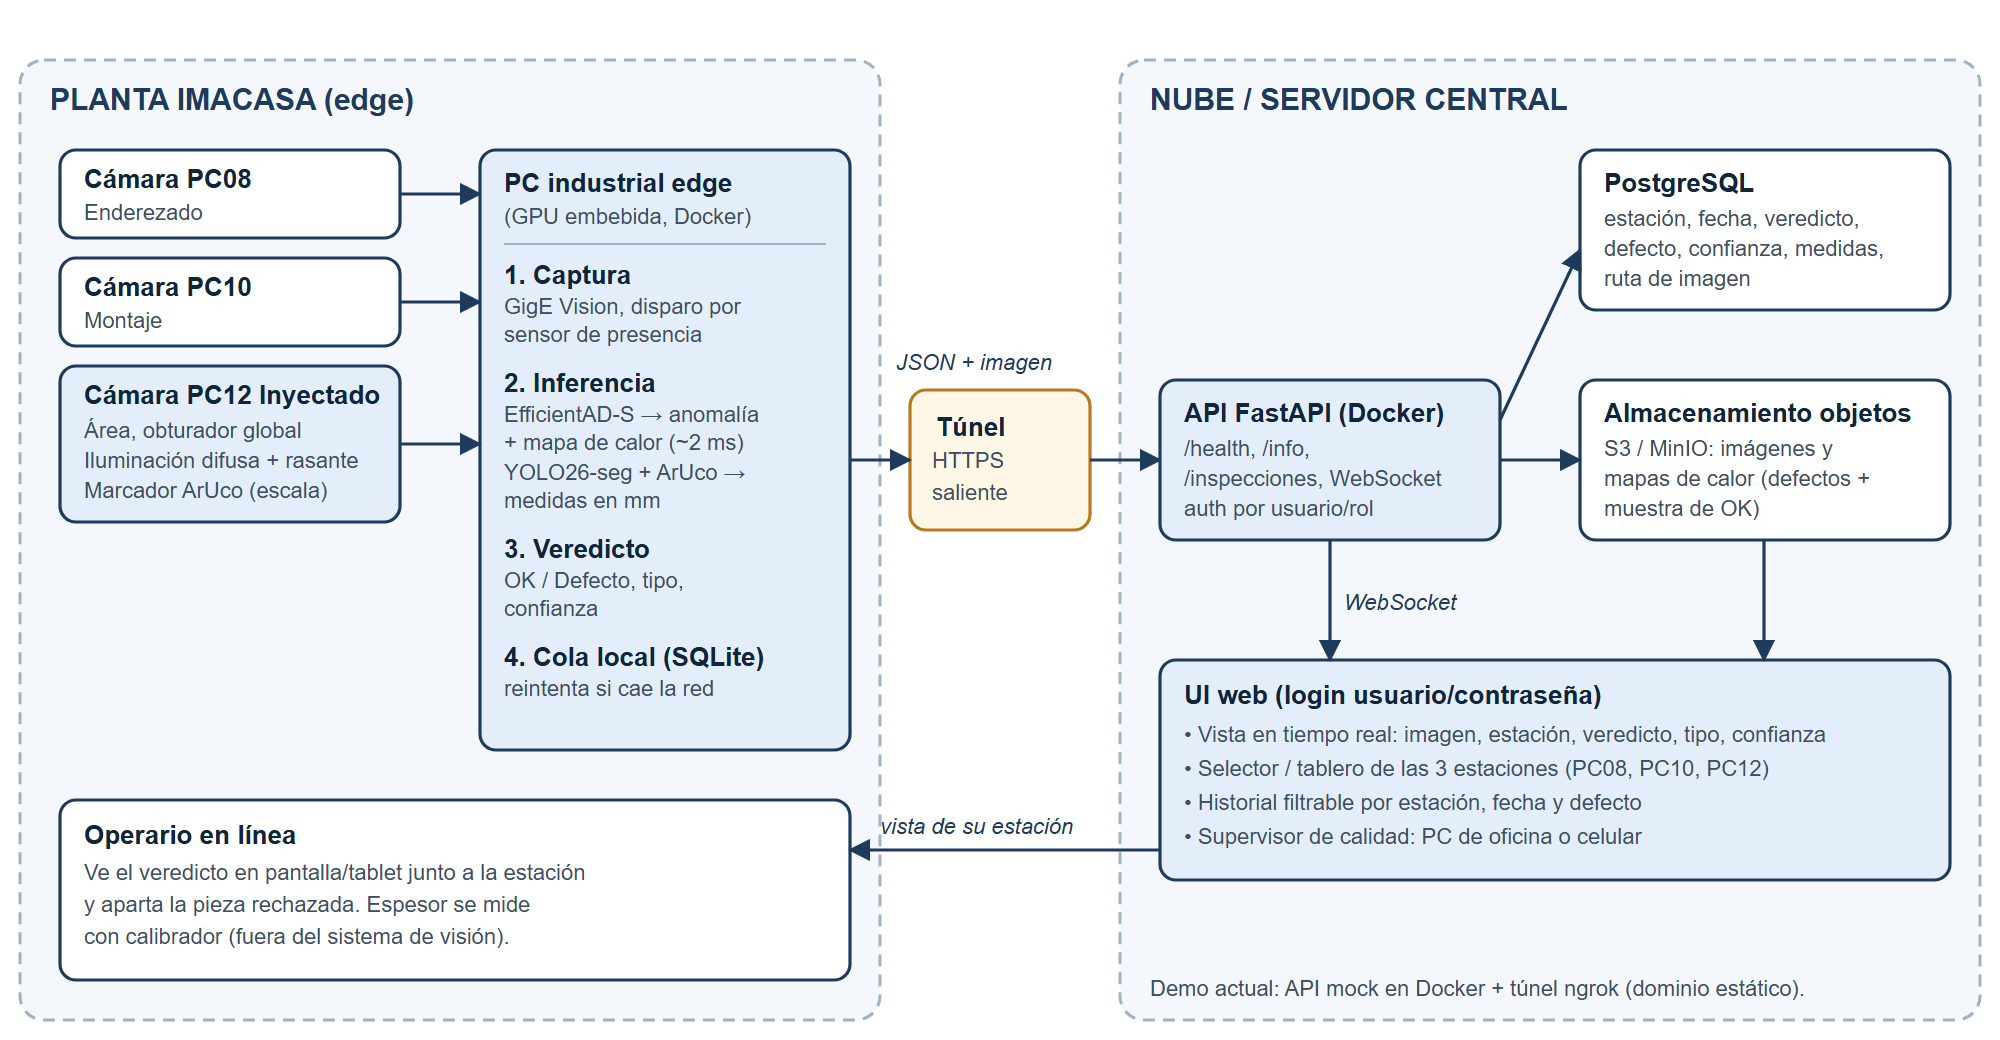
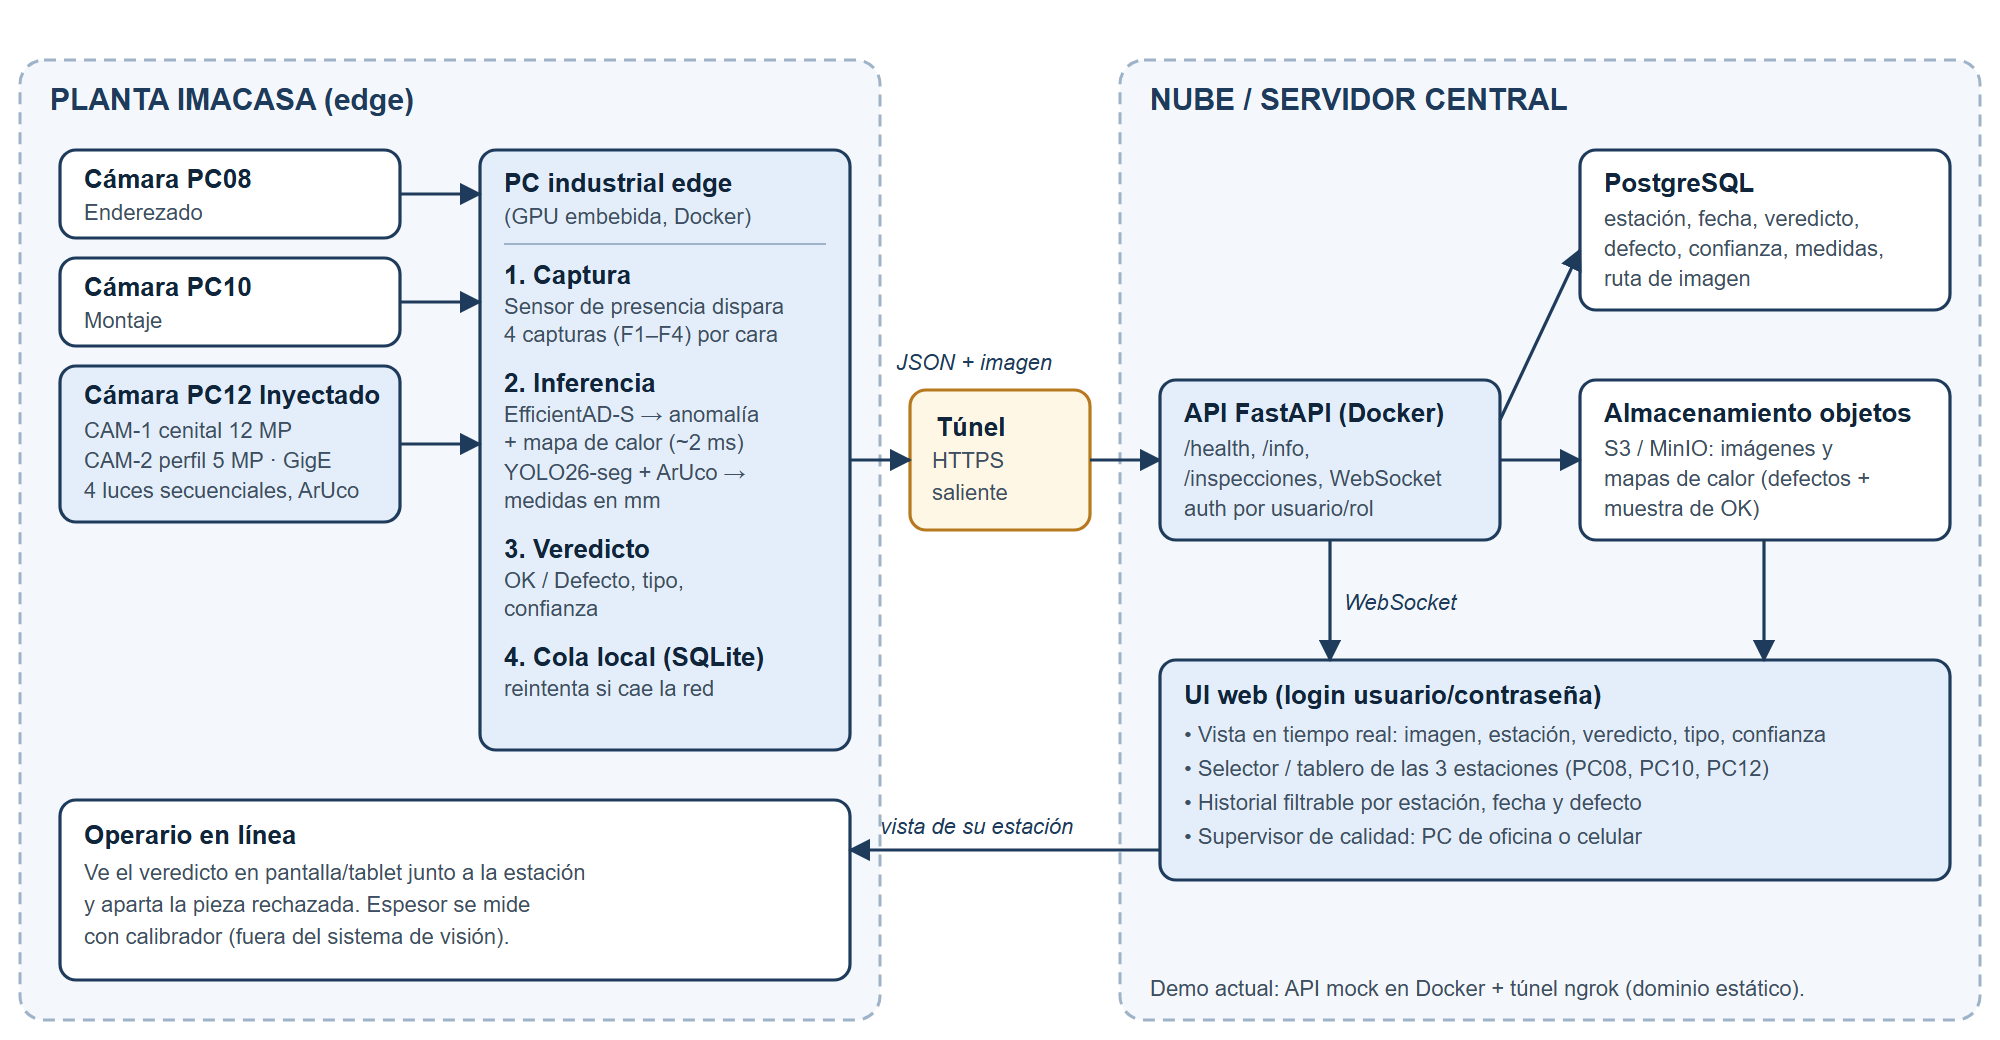
Alinea arquitectura con la propuesta de captura (2 cámaras, 4 luces en secuencia)

Changed region(s): [[0.031, 0.4, 0.186, 0.4923], [0.248, 0.2769, 0.403, 0.3385]]

diff --git a/docs/arquitectura.md b/docs/arquitectura.md
@@ -14,7 +14,7 @@ La inferencia corre en un PC industrial con GPU embebida junto a la línea, no e
 
 | Pieza | Servicio propuesto | Por qué |
 |---|---|---|
-| Captura | Cámara de área con obturador global, protocolo GigE Vision, disparo por sensor de presencia (detalle de cámara e iluminación en la sección de captura) | Pieza en movimiento: el obturador global evita la distorsión. GigE permite cables largos en planta. |
+| Captura | Cabina con dos cámaras de área GigE de obturador global (CAM-1 cenital de 12 MP y CAM-2 de perfil de 5 MP) y cuatro luces. Un sensor de presencia inicia la secuencia y un controlador enciende una luz por captura (F1–F4). El detalle está en la propuesta de captura. | Cada tipo de defecto necesita una luz distinta. El obturador global permite pulsos de luz de ~15 ms. GigE admite cables de hasta 100 m hasta el equipo edge. |
 | Inferencia | PC edge con GPU embebida y contenedores Docker: EfficientAD-S (Anomalib), YOLO26-seg + OpenCV/ArUco | Baja latencia, sin depender de la red. Docker permite usar la misma imagen en las 3 estaciones. |
 | Envío | HTTPS saliente mediante túnel (demo: ngrok con dominio estático; producción: Cloudflare Tunnel con dominio propio) | No se abren puertos en el firewall de la planta y el tráfico va cifrado con TLS. |
 | API | FastAPI en Docker (`/inspecciones`, WebSocket para tiempo real) | El mismo stack Python que los modelos, ligero y con documentación automática. |
